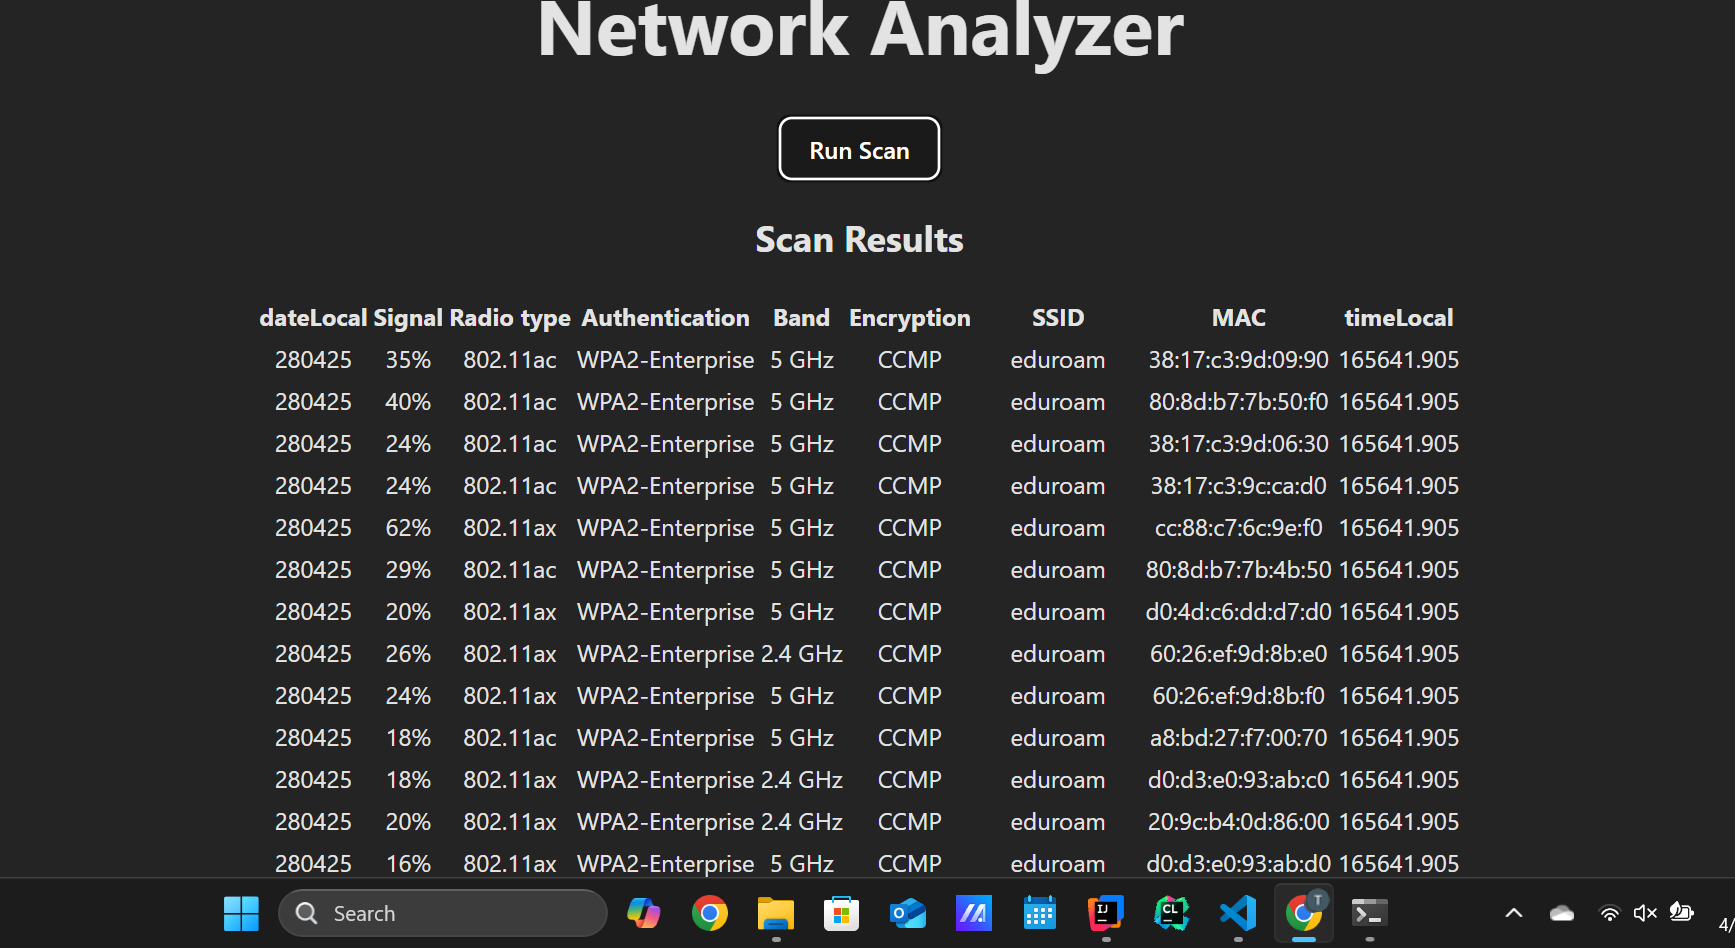
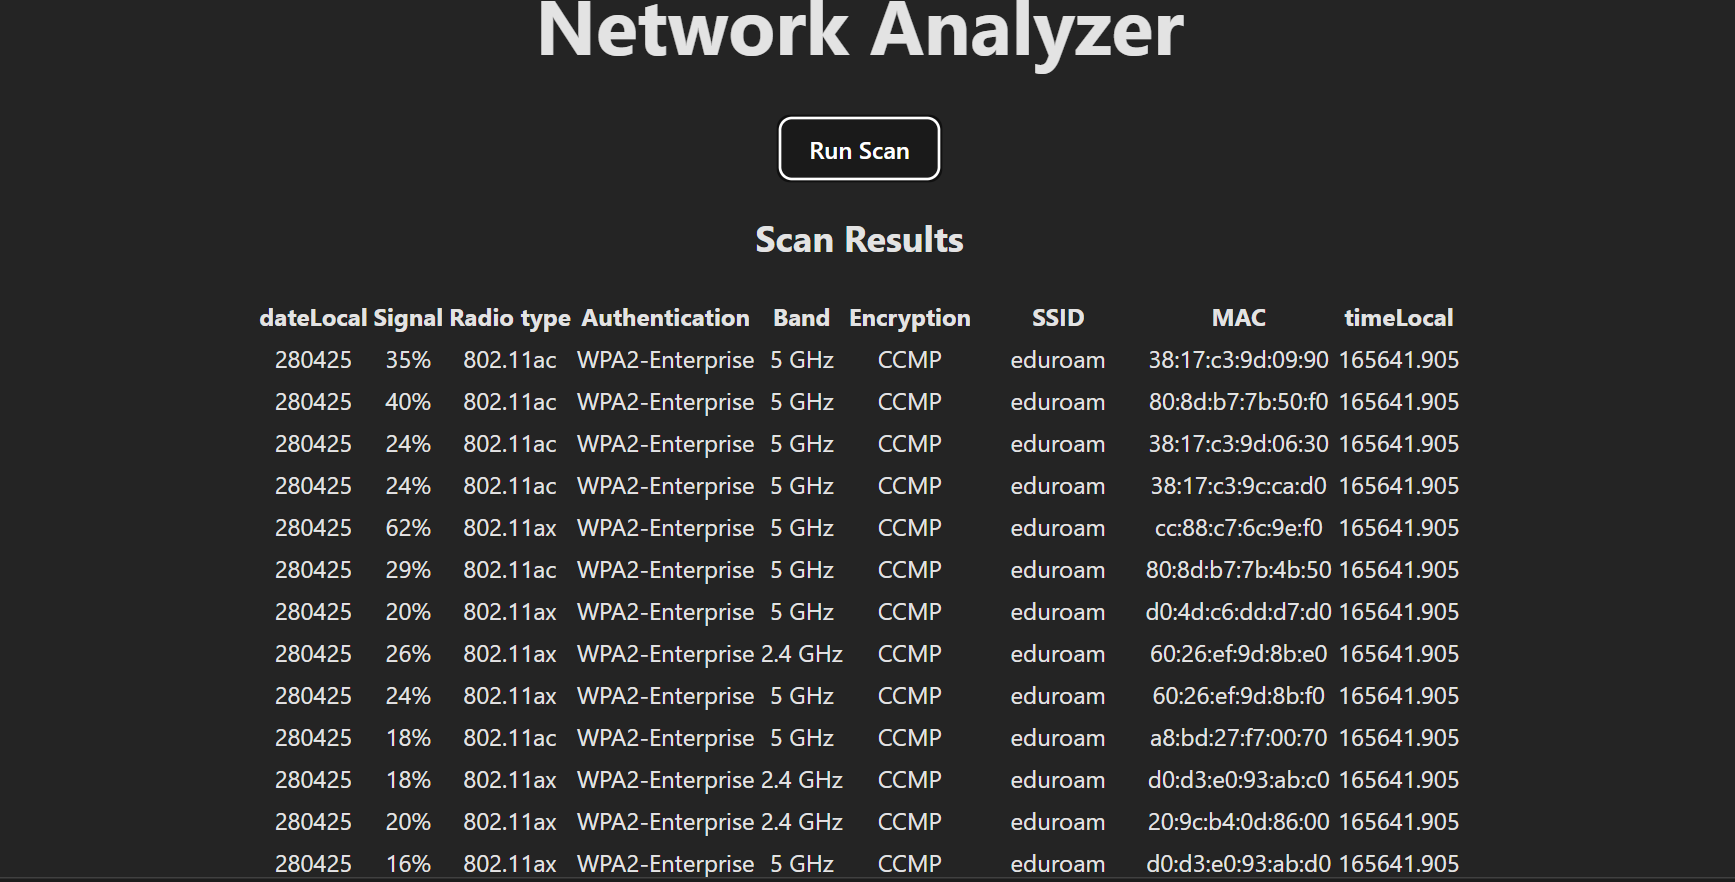
Fix image click issue

diff --git a/index.html b/index.html
@@ -75,9 +75,15 @@
           <strong>Skills:</strong> Python • Flask • Speech Processing • ASR • Machine Learning • Testing
         </p>
         <div class="project-screenshots" aria-label="Speech-Aware Meeting Summarizer screenshots">
-          <img src="images/sams1.png" alt="Speech-Aware Meeting Summarizer screenshot 1" loading="lazy" />
-          <img src="images/sams2.png" alt="Speech-Aware Meeting Summarizer screenshot 2" loading="lazy" />
-          <img src="images/sams3.png" alt="Speech-Aware Meeting Summarizer screenshot 3" loading="lazy" />
+          <a href="images/sams1.png">
+            <img src="images/sams1.png" alt="Speech-Aware Meeting Summarizer screenshot 1" loading="lazy" />
+          </a>
+          <a href="images/sams2.png">
+            <img src="images/sams2.png" alt="Speech-Aware Meeting Summarizer screenshot 2" loading="lazy" />
+          </a>
+          <a href="images/sams3.png">
+            <img src="images/sams3.png" alt="Speech-Aware Meeting Summarizer screenshot 3" loading="lazy" />
+          </a>
         </div>
         <p>
           <a href="https://github.com/Tculhane8879/Speech-Aware-Meeting-Summarizer" target="_blank">
@@ -96,10 +102,18 @@
           <strong>Skills:</strong> Java • Vue • TypeScript • Full-Stack Development • System Design
         </p>
         <div class="project-screenshots" aria-label="NetworkAnalyzer screenshots">
-          <img src="images/nan1.png" alt="NetworkAnalyzer screenshot 1" loading="lazy" />
-          <img src="images/nan2.png" alt="NetworkAnalyzer screenshot 2" loading="lazy" />
-          <img src="images/nan3.png" alt="NetworkAnalyzer screenshot 3" loading="lazy" />
-          <img src="images/nan4.png" alt="NetworkAnalyzer screenshot 4" loading="lazy" />
+          <a href="images/nan1.png">
+            <img src="images/nan1.png" alt="NetworkAnalyzer screenshot 1" loading="lazy" />
+          </a>
+          <a href="images/nan2.png">
+            <img src="images/nan2.png" alt="NetworkAnalyzer screenshot 2" loading="lazy" />
+          </a>
+          <a href="images/nan3.png">
+            <img src="images/nan3.png" alt="NetworkAnalyzer screenshot 3" loading="lazy" />
+          </a>
+          <a href="images/nan4.png">
+            <img src="images/nan4.png" alt="NetworkAnalyzer screenshot 4" loading="lazy" />
+          </a>
         </div>
         <p>
           <a href="https://github.com/Conava/NetworkAnalyzer" target="_blank">
@@ -146,9 +160,11 @@
       lightboxImage.alt = "";
     };
 
-    document.querySelectorAll(".project-screenshots img").forEach((image) => {
-      image.addEventListener("click", () => {
-        lightboxImage.src = image.src;
+    document.querySelectorAll(".project-screenshots a").forEach((link) => {
+      link.addEventListener("click", (event) => {
+        event.preventDefault();
+        const image = link.querySelector("img");
+        lightboxImage.src = link.href;
         lightboxImage.alt = image.alt;
         lightbox.classList.add("is-open");
         lightbox.setAttribute("aria-hidden", "false");

diff --git a/style.css b/style.css
@@ -57,6 +57,12 @@ section {
   margin: 1rem 0;
 }
 
+.project-screenshots a {
+  display: block;
+  border-radius: 8px;
+  line-height: 0;
+}
+
 .project-screenshots img {
   display: block;
   width: 100%;
